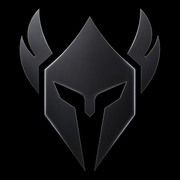
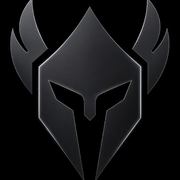
Replace PL tab glyph with the Perseus helm
Chrome was still pinning the old cyan PL square. Tab, apple-touch, and Grok preview icons now use the supplied helm.

Changed region(s): [[0.0556, 0.0, 0.9444, 1.0]]

diff --git a/src/routes/__root.tsx b/src/routes/__root.tsx
@@ -17,10 +17,11 @@ export const Route = createRootRoute({
       { name: "color-scheme", content: "dark" },
     ],
     links: [
-      { rel: "icon", href: "/favicon.ico", sizes: "any" },
-      { rel: "icon", type: "image/png", sizes: "32x32", href: "/favicon-32.png" },
-      { rel: "icon", type: "image/png", sizes: "48x48", href: "/favicon-48.png" },
-      { rel: "apple-touch-icon", href: "/apple-touch-icon.png" },
+      { rel: "icon", type: "image/svg+xml", href: "/favicon.svg?v=helm" },
+      { rel: "icon", href: "/favicon.ico?v=helm", sizes: "any" },
+      { rel: "icon", type: "image/png", sizes: "32x32", href: "/favicon-32.png?v=helm" },
+      { rel: "icon", type: "image/png", sizes: "48x48", href: "/favicon-48.png?v=helm" },
+      { rel: "apple-touch-icon", href: "/apple-touch-icon.png?v=helm" },
       { rel: "preconnect", href: "https://fonts.googleapis.com" },
       {
         rel: "preconnect",
